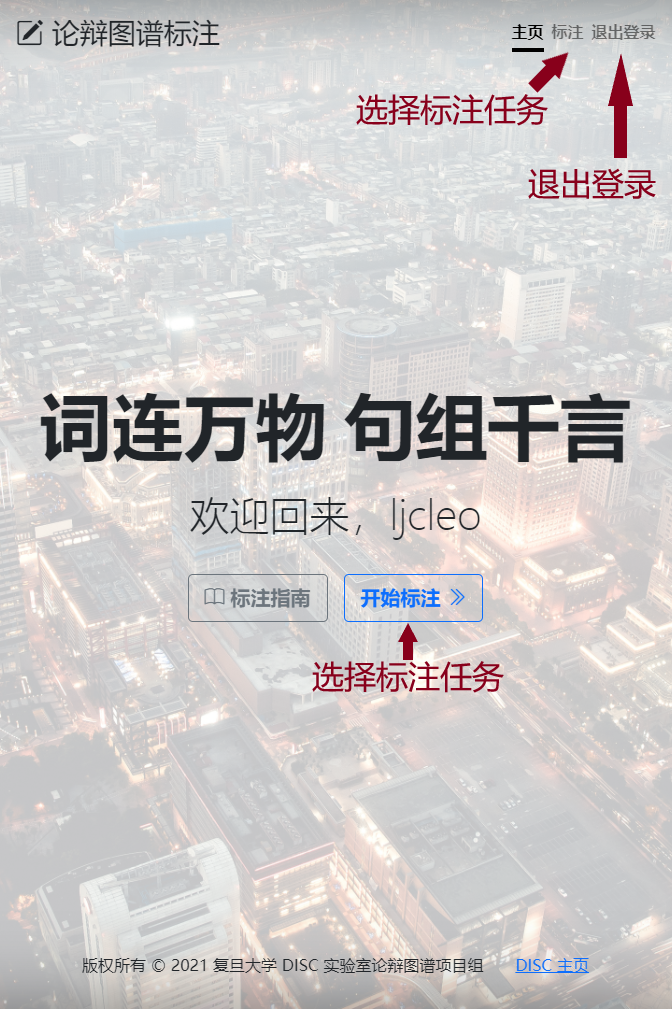
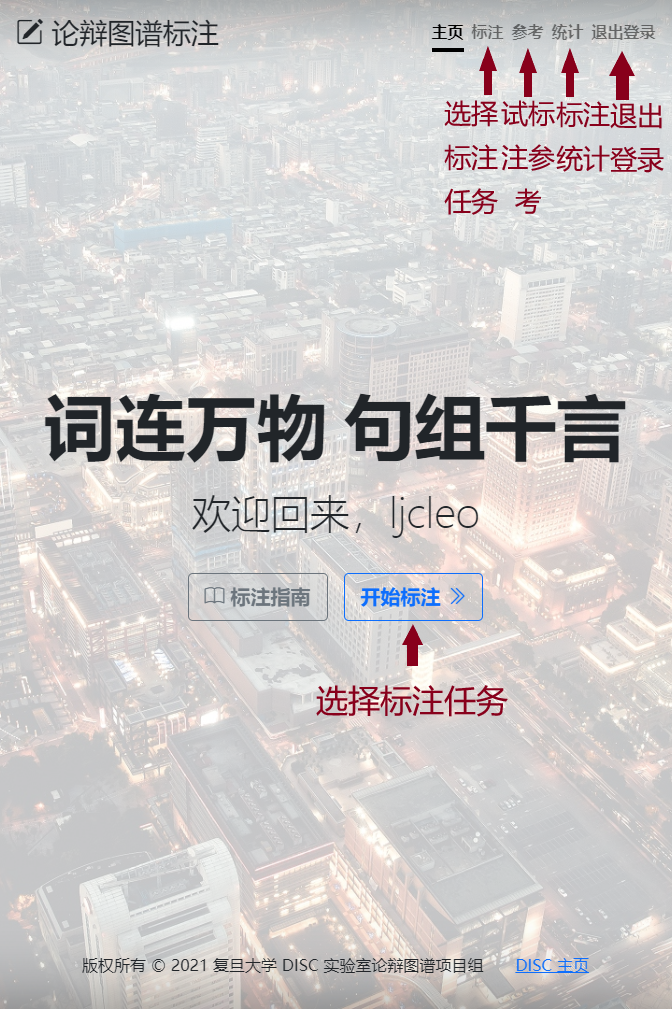
update website description and screenshots update annotation rule

diff --git a/docs/website.md b/docs/website.md
@@ -4,21 +4,25 @@
 
 ## 主页与登录
 
-标注网站主页各部分功能如下图所示。用户未登录时主页显示界面如左图，可以点击导航栏上的“登录”按钮进入登录页面，输入用户名和密码登录标注网站。登录后主页变为右图，用户可以点击“开始标注”按钮或导航栏上的“标注”按钮，开始标注任务，并且可以随时退出登录并清除浏览器缓存。点击“标注指南”会打开一个新标签并跳转到本指南的首页。
+标注网站主页各部分功能如下图所示。用户未登录时主页显示界面如左图，可以点击导航栏上的“登录”按钮进入登录页面，输入用户名和密码登录标注网站。登录后主页变为右图，用户可以点击“开始标注”按钮或导航栏上的“标注”按钮，开始标注任务。点击“标注指南”会打开一个新标签并跳转到本指南的首页。
 
 <img src="../img/未登录主页.png" alt="未登录主页" width="40%"/><img src="../img/已登录主页.png" alt="已登录主页" width="40%"/>
 
+在任何界面点击导航栏上的“参考”按钮可以查看两次试标注任务的参考结果，其中黄色高亮部分表示用户标注与参考标注的差异；点击“统计”按钮可以查看当前分配任务的标注进度（详情见[标注统计](#_5)）。
+
 ## 任务组
 
-点击“开始标注”后，网页将展示您的账号所分配到的任务组，如下图所示。其中，每个任务组会显示其名称与标注状态：绿色表示完成标注的任务，黄色表示标注为 Unknown Roleset 的任务，灰色表示未标注的任务（详情见[任务跳转](#_11)）。
+点击“开始标注”后，网页将展示您的账号所分配到的任务组，如下图所示。其中，每个任务组会显示其名称与标注状态：绿色表示完成标注的任务数，黄色表示标注为 Unknown Roleset 的任务数，灰色表示未标注的任务数（详情见[任务跳转](#_10)）。可以在左侧选择任务组的排序方式，并选择只显示未完成的任务组；单击左侧的“刷新”按钮会更新任务组列表和各个任务的标注状态。
+
+*注：一个任务“完成”当且仅当其角色集已选且不是 Unknown Roleset，因此如果确实存在无法选择角色集的任务，则网站将无法识别该任务及其所在的任务组为“完成”状态，但实际统计时会予以区分。*
 
 <img src="../img/任务组.png" alt="任务组" width="80%"/>
 
-点击选择一个任务组，即可进入对应任务组的标注页面，并自动跳转至上次离开该任务组时正在标注的任务（新用户或网站更新后第一次访问会跳转至第一个任务）。点击导航栏上的“指南”按钮同样可以在新标签打开本指南。点击左侧的“试标注参考结果”可以查看两次试标注任务的参考结果，其中黄色高亮部分表示用户标注与参考标注的差异。
+点击选择一个任务组，即可进入对应任务组的标注页面，并自动跳转至上次离开该任务组时正在标注的任务（新用户或网站更新后第一次访问会跳转至第一个任务）。点击导航栏上的“指南”按钮同样可以在新标签打开本指南。
 
 ## 标注界面
 
-标注界面各个组件的意义与功能如下图所示，详情见[操作流程](#_5)：
+标注界面各个组件的意义与功能如下图所示，详情见[操作流程](#_6)：
 
 <img src="../img/未标注界面.png" alt="未标注界面" width="80%"/>
 
@@ -26,9 +30,37 @@
 
 <img src="../img/已标注界面.png" alt="已标注界面" width="80%"/>
 
+## 标注统计
+
+标注统计界面展示了当前的标注进度，其中左侧显示已完成任务组占所有任务组的比例，右侧显示已完成任务占所有任务组的所有任务的比例。单击“刷新”按钮可以实时更新进度统计结果。
+
+<img src="../img/标注统计.png" alt="标注统计" width="80%"/>
+
 ## 操作流程
 
 *注意：标注过程中请务必保持网络连接畅通，否则当前任务的未保存修改可能会丢失；如果网页显示不正常，请检查并尝试关闭 VPN。*
+
+### 任务操作
+
+句子下方的工具栏提供了任务跳转、保存，以及错误反馈等功能。当前任务标注完成后，可以按需执行下一步操作。
+
+#### 任务组跳转
+
+左侧的工具栏可供任务组跳转。其中，单击左／右箭头可以切换至上／下一个任务组，这里任务组的顺序与最近一次在任务组界面排序与筛选的结果一致。单击“选择任务组”按钮会保存当前标注并回到任务组选择页面，与点击导航栏上的“标注”按钮效果相同。
+
+#### 任务保存
+
+每一次标注操作都会自动保存当前标注结果，同时每次回到标注页面都会重新加载标注。不过，仍然可以点击中间的“保存任务”按钮，即时保存当前任务。
+
+#### 任务跳转
+
+右侧的工具栏可供任务跳转，其中单击左／右箭头可以切换至上／下一个任务；单击“选择任务”按钮会弹出任务列表，展示当前任务组下的所有任务，可以单击跳转至任意任务，。切换任务时，网页将自动保存当前任务的标注结果。
+
+任务列表的每个条目显示了任务的句子、谓词和标注状态，如下图所示。其中，灰色表示任务尚未标注角色集，即任务尚未开始标注，如图中第七个任务开始的所有任务；黄色表示任务的角色集选项为 Unknown Roleset，即任务不能确定准确标注，如图中第四到第六个任务；绿色表示任务的角色集选项为某个谓词角色集或 Not Predicate，即任务已完成角色集标注（但不代表参数标注也已完成），如图中前三个任务。
+
+<img src="../img/任务选择.png" alt="任务选择" width="50%"/>
+
+如果标注过程中暂时无法确认某个任务的标注，可以临时选择 Unknown Roleset 作为角色集，从而在任务列表中突出显示该任务。无论如何，请尽量确保在任务截止时，任务组中所有任务均显示为绿色（除非确实有需要选择 Unknown Roleset 的任务）。
 
 ### 角色集标注
 
@@ -56,30 +88,14 @@
 
 #### 快捷编辑
 
+参数标注栏下方提供了一些方便标注的快捷编辑按钮，具体功能如下：
+
 - 点击“清除选择”可重置选择范围，重新选择；
 - 点击“撤销”可以回退到上一步，点击“恢复”可以重新应用撤销的更改；撤销与恢复的历史记录仅限进入页面后的操作，离开页面后历史记录自动清除；
-- 点击“重置任务”，可以删除除“REL”以外的所有标签，并重置角色集选项为未标注状态。
+- 点击“重置”，可以重置角色集选项为未标注状态，点击“非谓词”会自动设置角色集为 Not Predicate，点击“轻动词”则会将角色集设置为 Light Verb；上述操作均会删除除“REL”以外的所有标签。
 
-### 任务操作
+### 错误反馈
 
-页面下方的工具栏提供了任务跳转、保存，以及错误反馈等功能。当前任务标注完成后，可以按需执行下一步操作。
-
-#### 任务跳转
-
-左侧的工具栏可供任务跳转，其中单击左／右箭头可以切换至上／下一个任务；单击“选择任务”按钮会弹出任务列表，展示当前任务组下的所有任务，可以单击跳转至任意任务，。切换任务时，网页将自动保存当前任务的标注结果。
-
-任务列表的每个条目显示了任务的句子、谓词和标注状态，如下图所示。其中，灰色表示任务尚未标注角色集，即任务尚未开始标注，如图中第七个任务开始的所有任务；黄色表示任务的角色集选项为 Unknown Roleset，即任务不能确定准确标注，如图中第四到第六个任务；绿色表示任务的角色集选项为某个谓词角色集或 Not Predicate，即任务已完成角色集标注（但不代表参数标注也已完成），如图中前三个任务。
-
-<img src="../img/任务选择.png" alt="任务选择" width="50%"/>
-
-如果标注过程中暂时无法确认某个任务的标注，可以临时选择 Unknown Roleset 作为角色集，从而在任务列表中突出显示该任务。无论如何，请尽量确保在任务截止时，任务组中所有任务均显示为绿色（除非确实有需要选择 Unknown Roleset 的任务）。
-
-#### 任务保存
-
-中间的工具栏可供任务保存，其中点击“保存任务”，可即时保存当前任务；点击“保存并返回”或导航栏上的“标注”按钮，可以保存任务并回到任务组选择界面。
-
-#### 错误反馈
-
-右侧的“提交错误报告”按钮可供填写并提交错误报告，点击会弹出相应界面，如下图所示。请选择合适的错误原因，并详细填写错误信息，点击“提交”即可提交错误反馈报告。
+快捷编辑栏右侧的“提交错误报告”按钮可供填写并提交错误报告，点击会弹出相应界面，如下图所示。请选择合适的错误原因，并详细填写错误信息，点击“提交”即可提交错误反馈报告。
 
 <img src="../img/错误报告.png" alt="错误报告" width="50%"/>

diff --git a/docs/process.md b/docs/process.md
@@ -63,6 +63,10 @@
 
 作为形式主语的 it（如在“It is clear that I'm unclear.”中）无须标注。
 
+### 系动词后谓词
+
+如果存在修饰系动词的否定词与情态动词，则当系动词引导形容词谓词时（如“It is not successful.”）这些否定词与情态动词也视为修饰形容词谓词，但当系动词引导名词谓词时（如“It is not a success.”）否定词与情态动词不修饰名词谓词。
+
 ## 错误报告
 
 若发现存在以下情形，请通过标注页面的错误提交功能反馈相关问题：
